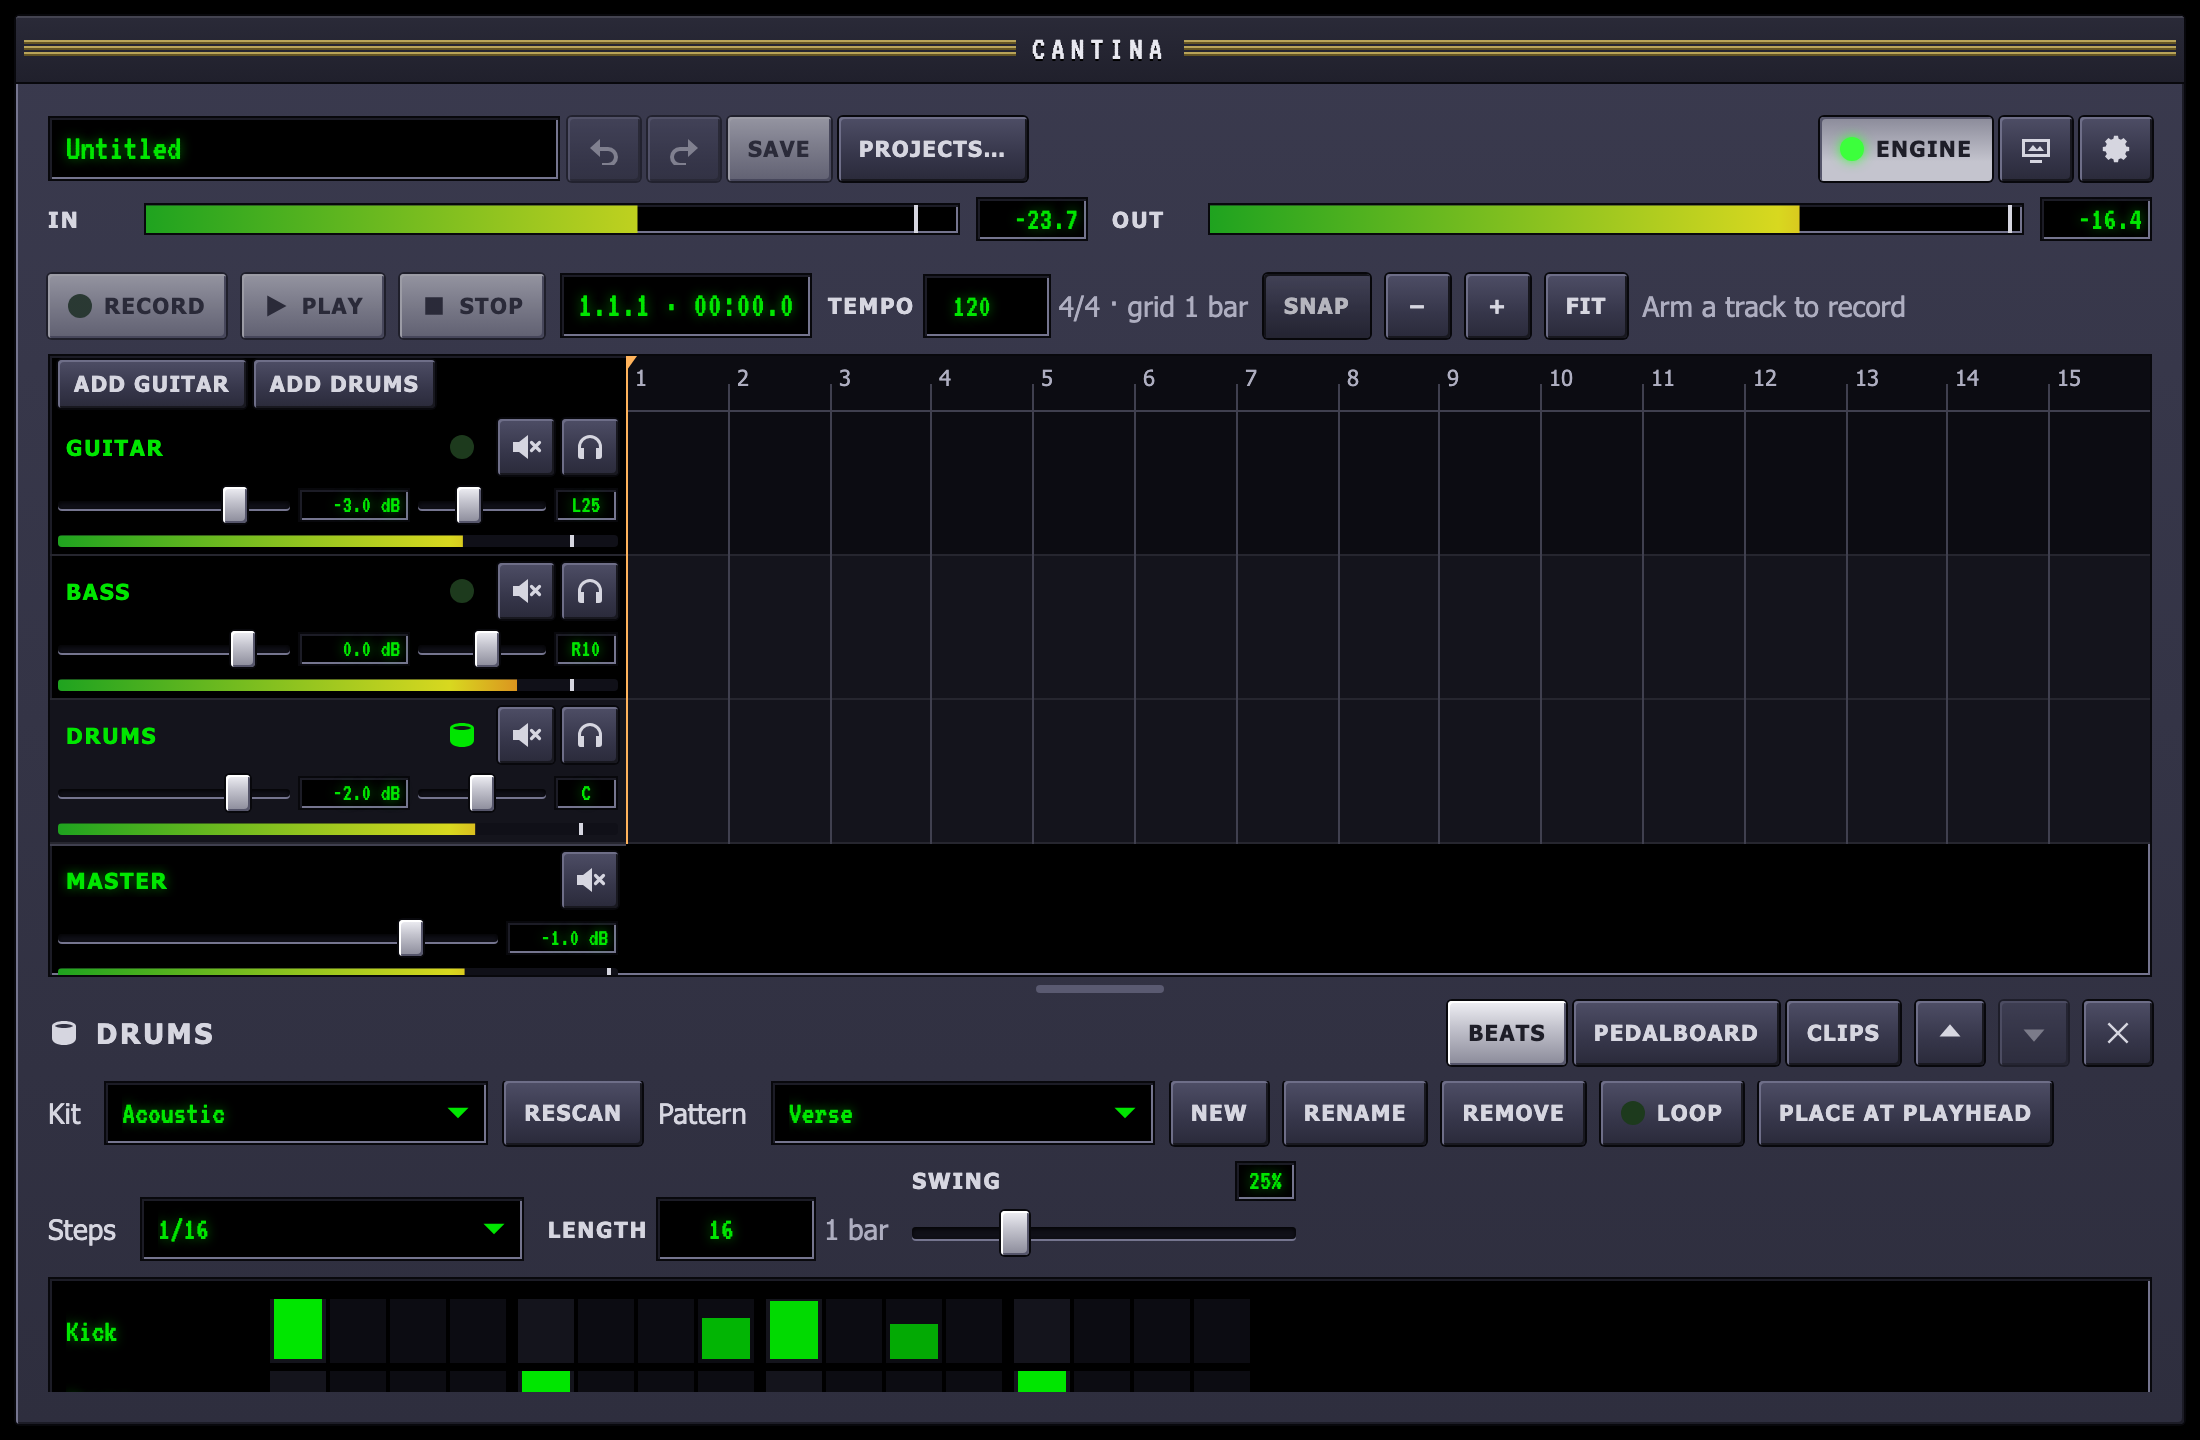
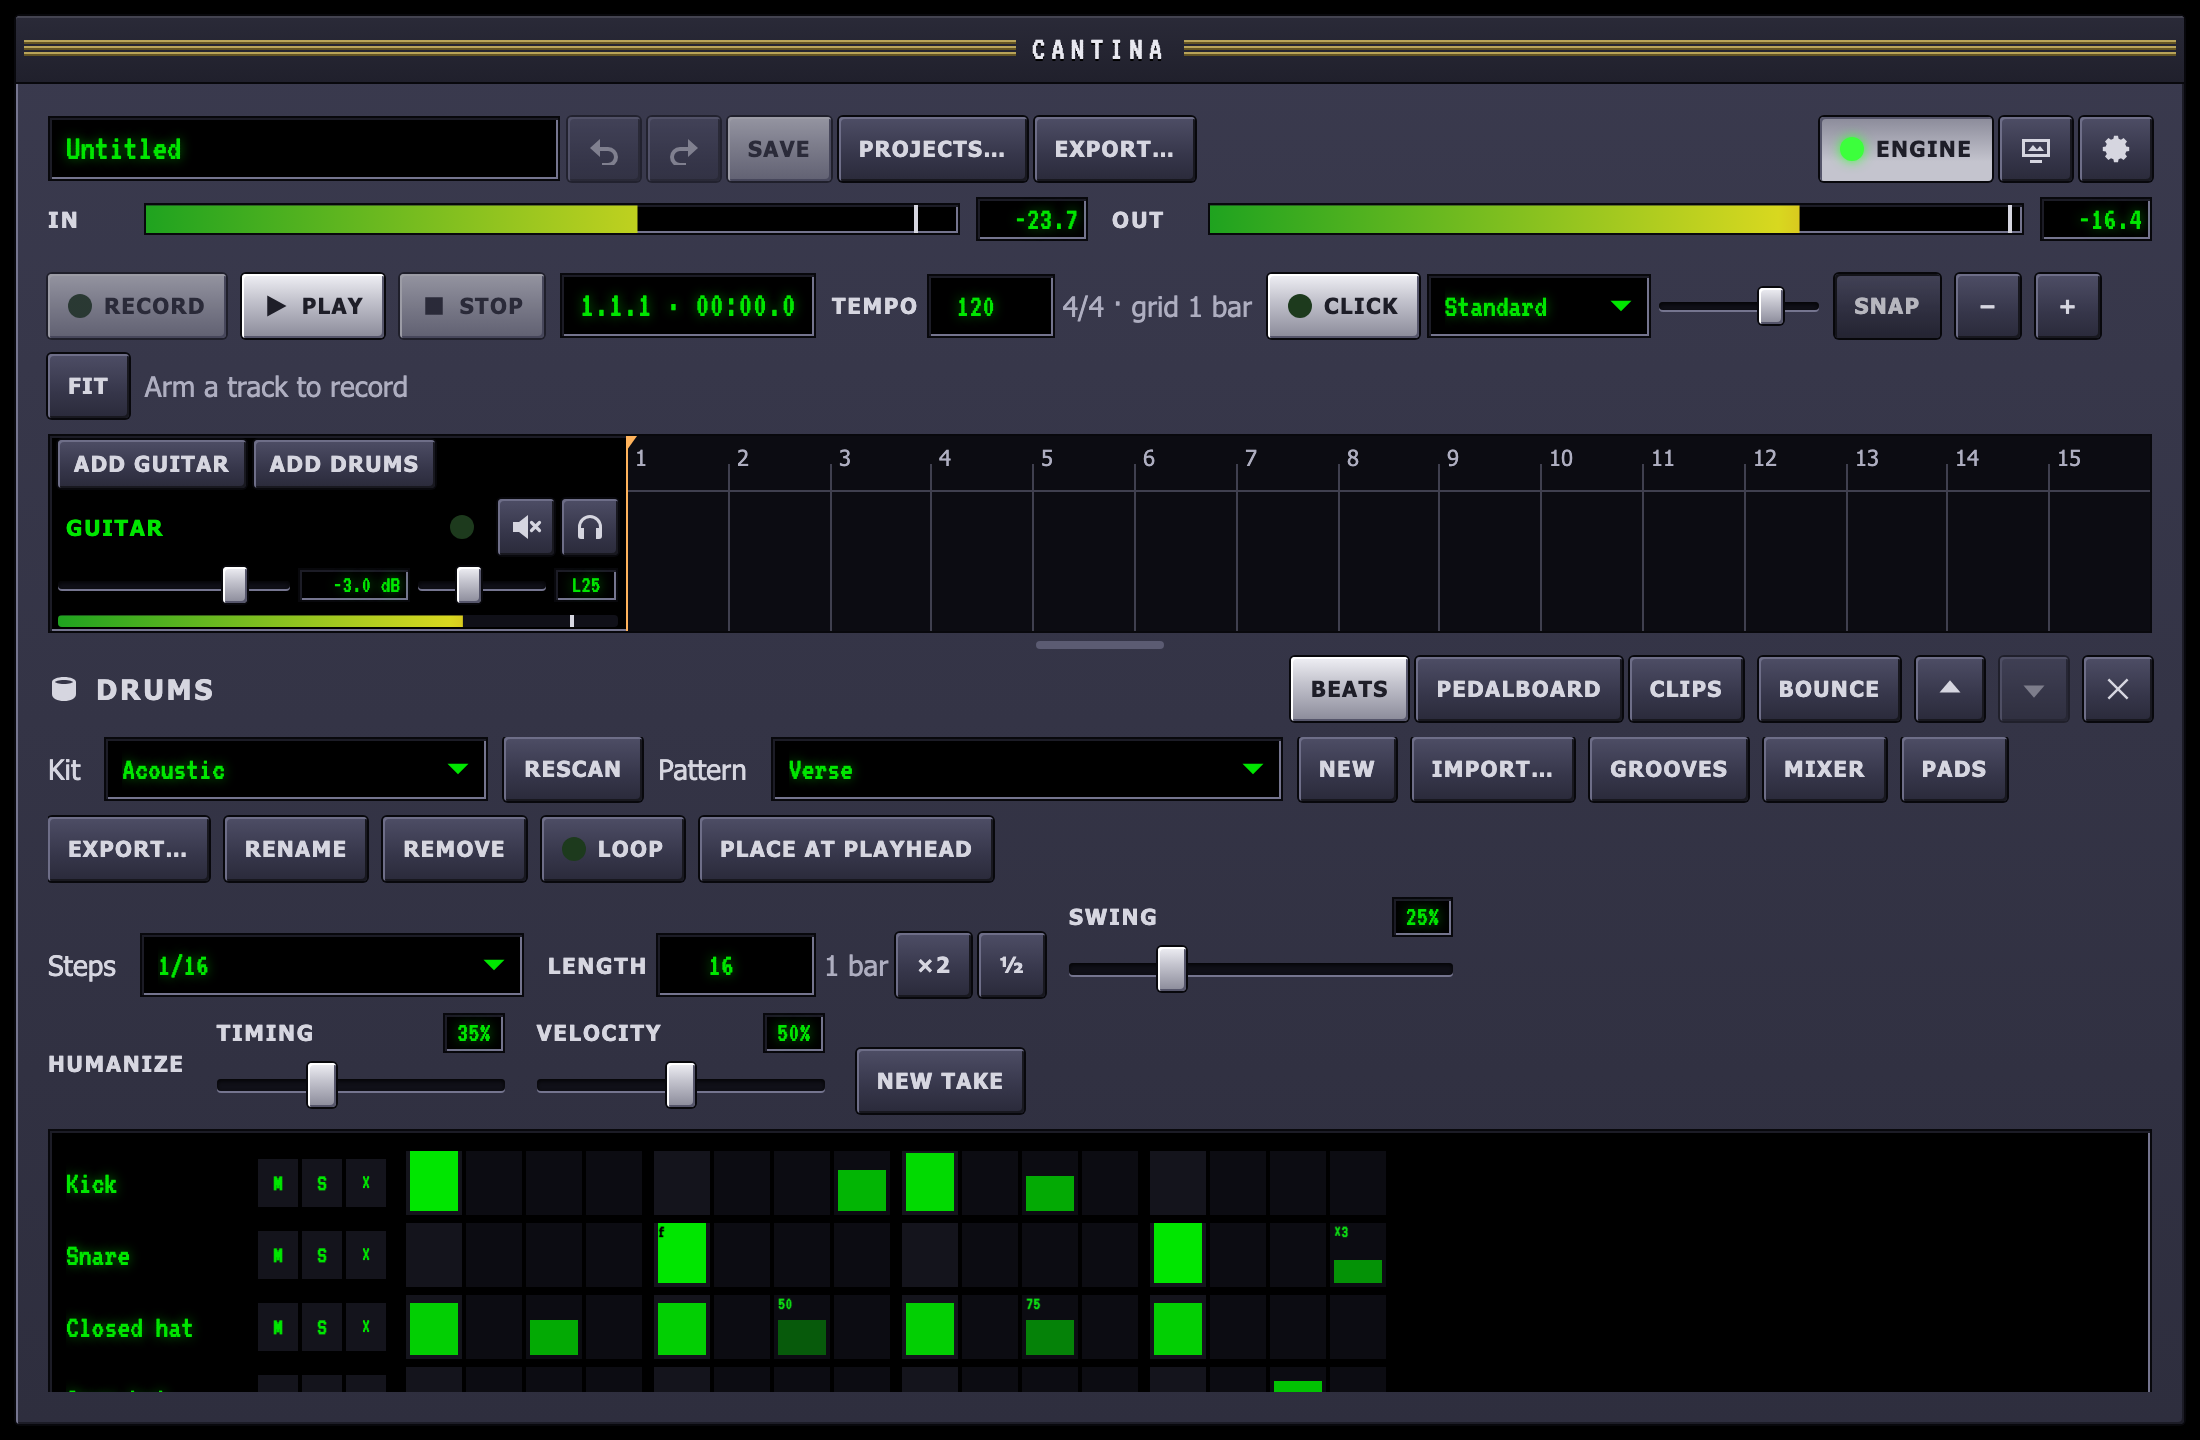
docs(drums): the drums guide for grooves, editing, feel, fills, pads and the mixer (#187) (#245)
* docs(drums): the drums guide for grooves, editing, feel, fills, pads and the mixer (#187)

A quick-start at the top, sections in the order a player meets them, the
pattern file's feel fields with an example, and a fresh screenshot.

Claude-Session: https://claude.ai/code/session_01Weyxkote2xscWSN2LNQZGG

* docs(drums): leave the stock kit test as main has it

Claude-Session: https://claude.ai/code/session_01Weyxkote2xscWSN2LNQZGG

---------

diff --git a/docs/src/content/docs/guides/drums.md b/docs/src/content/docs/guides/drums.md
@@ -1,13 +1,23 @@
 ---
 title: "Drums"
-description: "Add a drum track, pick a kit, program a pattern in the step grid and arrange it on the timeline."
+description: "Add a drum track, pick a kit, start from a stock groove or program your own, give it feel and fills, play the pads live, mix the kit and arrange it on the timeline."
 ---
 
-A drum track plays **patterns**, step grids you program, through a **kit** of
-drum sounds. You place a pattern on the timeline as a clip, and it follows
-the tempo.
+A drum track plays **patterns**, step grids, through a **kit** of drum
+sounds. You place a pattern on the timeline as a clip, and it follows the
+tempo.
 
-![A drum track's Beats tab: the kit, the pattern, the step size, length and swing, and the grid](../../../assets/guides/drums.png)
+The quick way to a beat:
+
+1. **Add drums** and pick a **kit** to suit the song.
+2. Open **Grooves**, find one by genre, **Loop** it to hear it at your
+   tempo, and drag it onto the timeline.
+3. Make it yours in the grid: paint hits, give it **feel** so it does not
+   sound programmed, or **play** it in on the pads.
+4. Give the clip a **fill** every few bars, and balance the kit in the
+   **mixer**.
+
+![A drum track's Beats tab: the kit, the pattern, the step size, length and swing, humanize, and the grid](../../../assets/guides/drums.png)
 
 ## Add a drum track
 
@@ -150,7 +160,121 @@ Above the grid:
   The size in bars and beats is shown beside it.
 - **Swing** delays every second step, up to a triplet feel at 100%.
 
-### Pattern files
+### Feel
+
+Grid-perfect drums sound programmed. Under the pattern controls:
+
+- **Humanize**, **Timing** and **Velocity** move every hit a little off
+  the grid (up to about a sixty-fourth note) and a little softer or
+  harder (up to 30%). Each pass of the pattern is slightly different, and
+  the same every time it plays, so a song sounds the same on every play
+  and every export. **New take** rolls it again.
+- For the row the focus is on, **Own swing** gives it a swing of its own,
+  hats swung with a straight kick for instance, and **Own humanize** its
+  own amounts.
+
+On a step (or a selection), from the keyboard:
+
+- **C** steps its **chance** through 100, 75, 50 and 25%: on each pass
+  the hit plays or not, the same way every time. The cell shows the
+  chance and is dimmer.
+- **R** steps a **ratchet** through 1 to 4 hits in the step, for rolls and
+  hat stutters; the cell shows ×2 to ×4.
+- **F** turns a **flam** on or off: a soft grace note just before the
+  hit; the cell shows f.
+
+Every change is one step of **Undo**, and travels with the step when you
+copy, shift or duplicate it.
+
+![Humanize set, a flam, a ratchet and two chances on the grid](../../../assets/guides/feel.png)
+
+## Play and record the pads
+
+**Pads**, beside **Mixer**, shows the kit as pads to play: click one
+(higher on the pad is harder), or with a pad focused use the keys under
+them, **A S D F G H J K L ;** for the first ten pads in the kit's order
+and **Z X C V B N** for the next six; ⇧ plays an accent. A hit goes
+straight to the drum track's sampler and sounds at once, through the
+track's pedals, whether the song is playing or not.
+
+- **Record** loops the pattern shown from the top and starts playing.
+  Play along: each hit lands on the nearest step, and when the pattern
+  comes round, what you played that pass is added to it as one step of
+  **Undo**, keeping the louder hit where one was already there. Keep
+  playing to add more on the next pass; press **Record** again, or Esc,
+  to stop.
+- **Step** writes a hit at a cursor, then moves the cursor on a step,
+  for programming a beat one hit at a time without a tempo; ← and →
+  move the cursor. Each hit is one step of **Undo**.
+
+![The pads, recording into the pattern](../../../assets/guides/pads.png)
+
+## Fills
+
+A loop that never changes sounds like a loop. Any pattern clip can play a
+**fill**, another pattern, on some of its bars. In the **Clips** tab, each
+pattern clip has:
+
+- **Fill**: the pattern to play on fill bars, or **No fill**.
+- **Every 2, 4, 8 or 16 bars**: the last bar of each group is a fill
+  (counted from the clip's start), or **Not repeating**.
+- **At end**: the clip's last bar is a fill, leading into whatever comes
+  next, such as the chorus.
+- **Generate**: writes a new fill from the clip's own pattern, on this
+  track's kit, and picks it, playing every four bars and at the end (or
+  as the clip already had it). The groove plays for the first beat or
+  two of the bar, then breaks into a snare roll, a run down the toms,
+  snare and toms in turns, or kick-and-snare accents. Press it again for
+  another. The fill is an ordinary pattern, called "<pattern> fill",
+  that you can open in **Beats** and edit.
+
+A fill bar plays the first bar of the fill pattern, and the clip's own
+pattern carries on afterwards where it would have been. Stock grooves come
+with a fill for each genre, which you can add and choose here too. Every
+change is one step of **Undo**.
+
+![A pattern clip playing its fill every four bars and at its end](../../../assets/guides/fills.png)
+
+## The pad mixer
+
+**Mixer**, beside **Grooves**, opens the pad mixer: for each pad of the
+kit, without editing the kit,
+
+- **M** mutes the pad.
+- **Level** from −60 to +12 dB.
+- **Pan**, added to where the kit puts it.
+- **Tune** up or down a fifth and more, ±12 semitones, for a deeper kick
+  or a higher snare.
+- **Decay**: how much of each hit rings, down to 5%; a shorter decay
+  tightens a boomy kick or a washy cymbal.
+
+The settings are saved with the drum track. Level and mute change
+smoothly, even while a hit rings; pan, tune and decay take effect from
+the next hit. Double-click a fader to put it back to the kit's own, and
+every change is one step of **Undo**.
+
+![The pad mixer: the kick tuned down with a shorter decay, the snare a little left, the open hat muted](../../../assets/guides/pad-mixer.png)
+
+## Arrange
+
+**Place at playhead** puts the pattern on the track at the playhead. You can
+also drag the button onto a drum track's lane and drop it where the pattern
+should start. The pattern's name follows the pointer while you drag; Esc, or
+letting go anywhere off the timeline, places nothing.
+
+A pattern clip moves, trims, splits and deletes like an audio clip (see
+[Recording and editing](/guides/recording/#edit-clips)). Drag its right edge
+to repeat the pattern for more bars. Clips stay on their bars when you
+change the tempo, and editing a pattern changes every clip of it.
+
+A pattern that is on the timeline cannot be removed until its clips are
+deleted.
+
+The stock kits' samples are public domain (CC0), recorded by their authors
+on Freesound and gathered by the Sonic Pi project. `kits/CREDITS.md` in the
+repository lists every file's source.
+
+## Pattern files
 
 A pattern can also live outside a project as `<name>.pattern.json`: the
 same object the project holds, without its id. The
@@ -172,6 +296,31 @@ same object the project holds, without its id. The
 
 Each row has exactly `length` velocities from 0 (no hit) to 1, and names a
 pad by the id kits use.
+
+The [feel](#feel) is in the file too, all optional:
+
+```json
+{
+  "name": "Shuffle",
+  "stepsPerBeat": 4,
+  "length": 16,
+  "swing": 0,
+  "humanize": { "timing": 0.3, "velocity": 0.4 },
+  "seed": 7,
+  "rows": [
+    { "pad": "hh-closed", "swing": 0.6, "steps": [0.8,0,0.5,0, 0.8,0,0.5,0, 0.8,0,0.5,0, 0.8,0,0.5,0],
+      "marks": [{ "step": 6, "chance": 0.5 }, { "step": 14, "ratchet": 2 }] },
+    { "pad": "snare", "steps": [0,0,0,0, 1,0,0,0, 0,0,0,0, 1,0,0,0],
+      "marks": [{ "step": 4, "flam": true }] }
+  ]
+}
+```
+
+- **`humanize`** (`timing` and `velocity`, 0 to 1) and **`seed`** belong
+  to the pattern; a row can have its own `humanize` and `swing`.
+- **`marks`**, in step order, are the steps that play by `chance` (0 to
+  1), `ratchet` (1 to 4 hits) or with a `flam`. A step without a mark
+  plays once, every time.
 
 A stock groove's file also has a `groove` object saying what it is for.
 Cantina reads it to sort the groove into the menu and leaves it behind
@@ -203,101 +352,6 @@ when the groove is added to a project:
   does not have are kept, so the pattern still plays them on another kit,
   and a notice names them.
 
-## Play and record the pads
-
-**Pads**, beside **Mixer**, shows the kit as pads to play: click one
-(higher on the pad is harder), or with a pad focused use the keys under
-them, **A S D F G H J K L ;** for the first ten pads in the kit's order
-and **Z X C V B N** for the next six; ⇧ plays an accent. A hit goes
-straight to the drum track's sampler and sounds at once, through the
-track's pedals, whether the song is playing or not.
-
-- **Record** loops the pattern shown from the top and starts playing.
-  Play along: each hit lands on the nearest step, and when the pattern
-  comes round, what you played that pass is added to it as one step of
-  **Undo**, keeping the louder hit where one was already there. Keep
-  playing to add more on the next pass; press **Record** again, or Esc,
-  to stop.
-- **Step** writes a hit at a cursor, then moves the cursor on a step,
-  for programming a beat one hit at a time without a tempo; ← and →
-  move the cursor. Each hit is one step of **Undo**.
-
-![The pads, recording into the pattern](../../../assets/guides/pads.png)
-
-## The pad mixer
-
-**Mixer**, beside **Grooves**, opens the pad mixer: for each pad of the
-kit, without editing the kit,
-
-- **M** mutes the pad.
-- **Level** from −60 to +12 dB.
-- **Pan**, added to where the kit puts it.
-- **Tune** up or down a fifth and more, ±12 semitones, for a deeper kick
-  or a higher snare.
-- **Decay**: how much of each hit rings, down to 5%; a shorter decay
-  tightens a boomy kick or a washy cymbal.
-
-The settings are saved with the drum track. Level and mute change
-smoothly, even while a hit rings; pan, tune and decay take effect from
-the next hit. Double-click a fader to put it back to the kit's own, and
-every change is one step of **Undo**.
-
-![The pad mixer: the kick tuned down with a shorter decay, the snare a little left, the open hat muted](../../../assets/guides/pad-mixer.png)
-
-## Feel
-
-Grid-perfect drums sound programmed. Under the pattern controls:
-
-- **Humanize**, **Timing** and **Velocity** move every hit a little off
-  the grid (up to about a sixty-fourth note) and a little softer or
-  harder (up to 30%). Each pass of the pattern is slightly different, and
-  the same every time it plays, so a song sounds the same on every play
-  and every export. **New take** rolls it again.
-- For the row the focus is on, **Own swing** gives it a swing of its own,
-  hats swung with a straight kick for instance, and **Own humanize** its
-  own amounts.
-
-On a step (or a selection), from the keyboard:
-
-- **C** steps its **chance** through 100, 75, 50 and 25%: on each pass
-  the hit plays or not, the same way every time. The cell shows the
-  chance and is dimmer.
-- **R** steps a **ratchet** through 1 to 4 hits in the step, for rolls and
-  hat stutters; the cell shows ×2 to ×4.
-- **F** turns a **flam** on or off: a soft grace note just before the
-  hit; the cell shows f.
-
-Every change is one step of **Undo**, and travels with the step when you
-copy, shift or duplicate it.
-
-![Humanize set, a flam, a ratchet and two chances on the grid](../../../assets/guides/feel.png)
-
-## Fills
-
-A loop that never changes sounds like a loop. Any pattern clip can play a
-**fill**, another pattern, on some of its bars. In the **Clips** tab, each
-pattern clip has:
-
-- **Fill**: the pattern to play on fill bars, or **No fill**.
-- **Every 2, 4, 8 or 16 bars**: the last bar of each group is a fill
-  (counted from the clip's start), or **Not repeating**.
-- **At end**: the clip's last bar is a fill, leading into whatever comes
-  next, such as the chorus.
-- **Generate**: writes a new fill from the clip's own pattern, on this
-  track's kit, and picks it, playing every four bars and at the end (or
-  as the clip already had it). The groove plays for the first beat or
-  two of the bar, then breaks into a snare roll, a run down the toms,
-  snare and toms in turns, or kick-and-snare accents. Press it again for
-  another. The fill is an ordinary pattern, called "<pattern> fill",
-  that you can open in **Beats** and edit.
-
-A fill bar plays the first bar of the fill pattern, and the clip's own
-pattern carries on afterwards where it would have been. Stock grooves come
-with a fill for each genre, which you can add and choose here too. Every
-change is one step of **Undo**.
-
-![A pattern clip playing its fill every four bars and at its end](../../../assets/guides/fills.png)
-
 ## Library folders
 
 Cantina watches three folders for files written outside the app, by hand
@@ -323,22 +377,3 @@ A coding agent can write patterns and kits for you; see
 **Loop** plays the pattern on its own, from the start of the timeline, while
 the transport plays, and lights the column it is on. Edit as it plays; you
 hear each change on the next pass.
-
-## Arrange
-
-**Place at playhead** puts the pattern on the track at the playhead. You can
-also drag the button onto a drum track's lane and drop it where the pattern
-should start. The pattern's name follows the pointer while you drag; Esc, or
-letting go anywhere off the timeline, places nothing.
-
-A pattern clip moves, trims, splits and deletes like an audio clip (see
-[Recording and editing](/guides/recording/#edit-clips)). Drag its right edge
-to repeat the pattern for more bars. Clips stay on their bars when you
-change the tempo, and editing a pattern changes every clip of it.
-
-A pattern that is on the timeline cannot be removed until its clips are
-deleted.
-
-The stock kits' samples are public domain (CC0), recorded by their authors
-on Freesound and gathered by the Sonic Pi project. `kits/CREDITS.md` in the
-repository lists every file's source.
